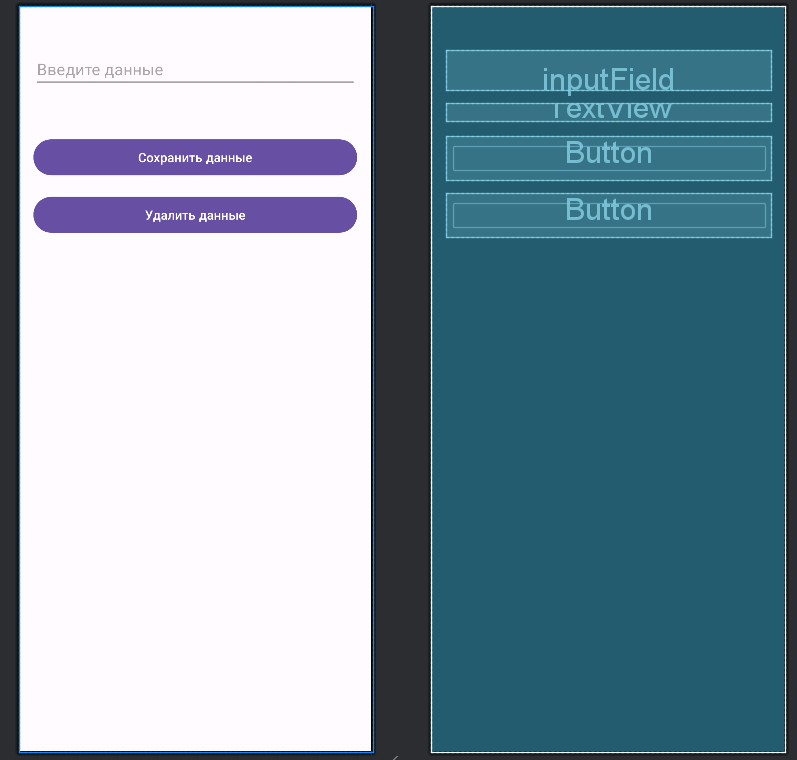
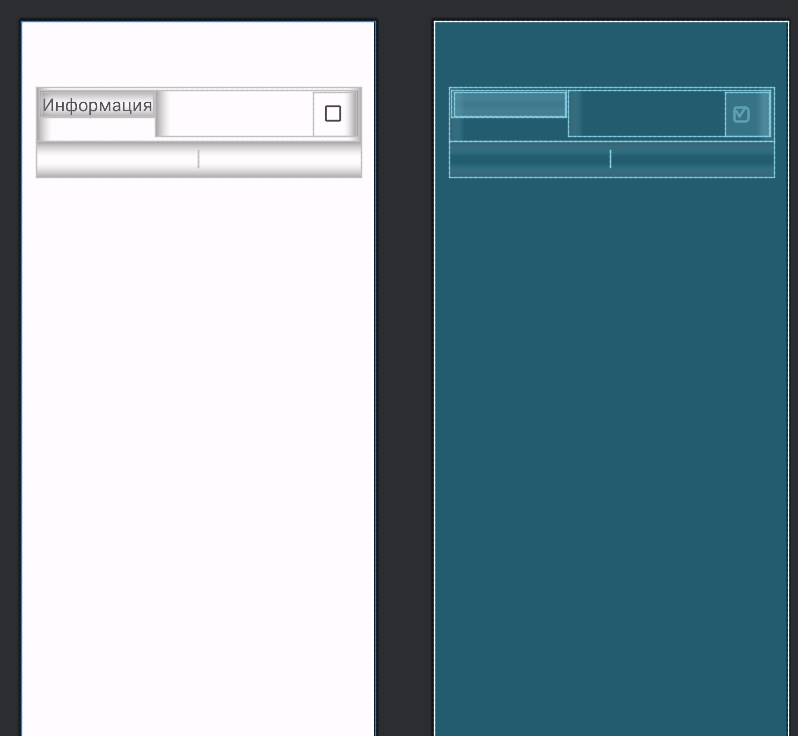
Checkbox-Snackbar(secondTask)

Changed region(s): [[0.542, 0.0, 0.9937, 1.0], [0.0, 0.0, 0.4818, 1.0]]

diff --git a/app/src/main/java/com/example/androidlessons/MainActivity.kt b/app/src/main/java/com/example/androidlessons/MainActivity.kt
@@ -2,51 +2,44 @@ package com.example.androidlessons
 
 import android.annotation.SuppressLint
 import android.os.Bundle
-import android.widget.Button
-import android.widget.EditText
+import android.widget.CheckBox
 import android.widget.TextView
 import androidx.activity.enableEdgeToEdge
 import androidx.appcompat.app.AppCompatActivity
-import com.google.android.material.snackbar.Snackbar
 
 class MainActivity : AppCompatActivity() {
 
-    private lateinit var inputFieldET: EditText
-    private lateinit var outputFieldTV: TextView
-    private lateinit var saveButton: Button
-    private lateinit var deleteButton: Button
+    private lateinit var textTV : TextView
+    private lateinit var rulesTV : TextView
 
+    lateinit var infoCB : CheckBox
 
-    @SuppressLint("ShowToast")
+    @SuppressLint( "SetTextI18n")
     override fun onCreate(savedInstanceState: Bundle?) {
         super.onCreate(savedInstanceState)
         enableEdgeToEdge()
         setContentView(R.layout.activity_main)
 
-        inputFieldET = findViewById(R.id.inputField)
-        outputFieldTV = findViewById(R.id.outputField)
-        saveButton = findViewById(R.id.saveButton)
-        deleteButton = findViewById(R.id.deleteButton)
+        textTV = findViewById(R.id.voidfield)
+        rulesTV = findViewById(R.id.rulesTV)
+        infoCB = findViewById(R.id.infoCB)
 
-        saveButton.setOnClickListener {
-            outputFieldTV.text = inputFieldET.text.toString()
+        infoCB.setOnCheckedChangeListener{_,isChecked ->
+            if (isChecked){
+                textTV.text = "Правила дорожного движения"
+                rulesTV.text =
+                        " 1. Соблюдайте скорость.\n" +
+                        " 2. Используйте ремень безопасности.\n" +
+                        " 3. Не управляйте автомобилем в состоянии алкогольного опьянения.\n" +
+                        " 4. Соблюдайте правила дорожного движения.\n" +
+                        " 5. Уважайте других участников дорожного движения."
+            }else{
+                textTV.text = "Информация"
+                rulesTV.text = ""
+            }
         }
-        deleteButton.setOnClickListener { view ->
-            Snackbar
-                .make(
-                    view,
-                    "Потвердить удаление?",
-                    Snackbar.LENGTH_LONG
-                )
-                .setAction("Удалить?") {
-                    Snackbar.make(
-                        view,
-                        "Данные удалены",
-                        Snackbar.LENGTH_LONG
-                    ).show()
-                    outputFieldTV.text = ""
-                }.show()
-        }
+
+
     }
 
 

diff --git a/README.md b/README.md
@@ -5,7 +5,6 @@
 ## Скриншоты
 
 ## Разметка
-
 <img src="images/img.png" width="300" />
 
 ## Демонстрация работы
